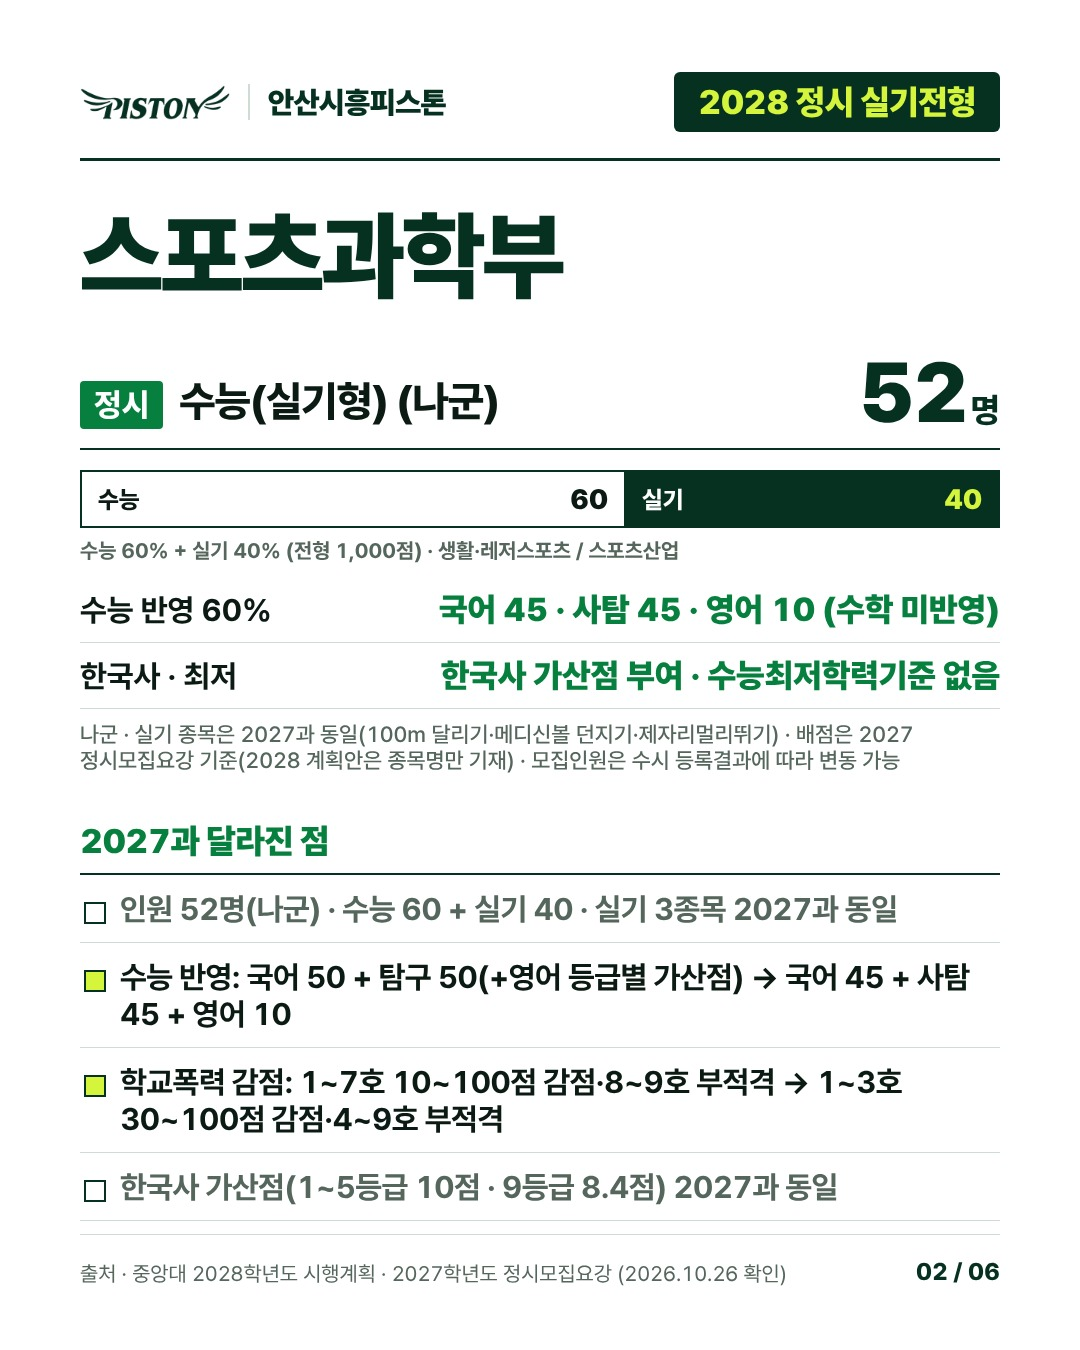
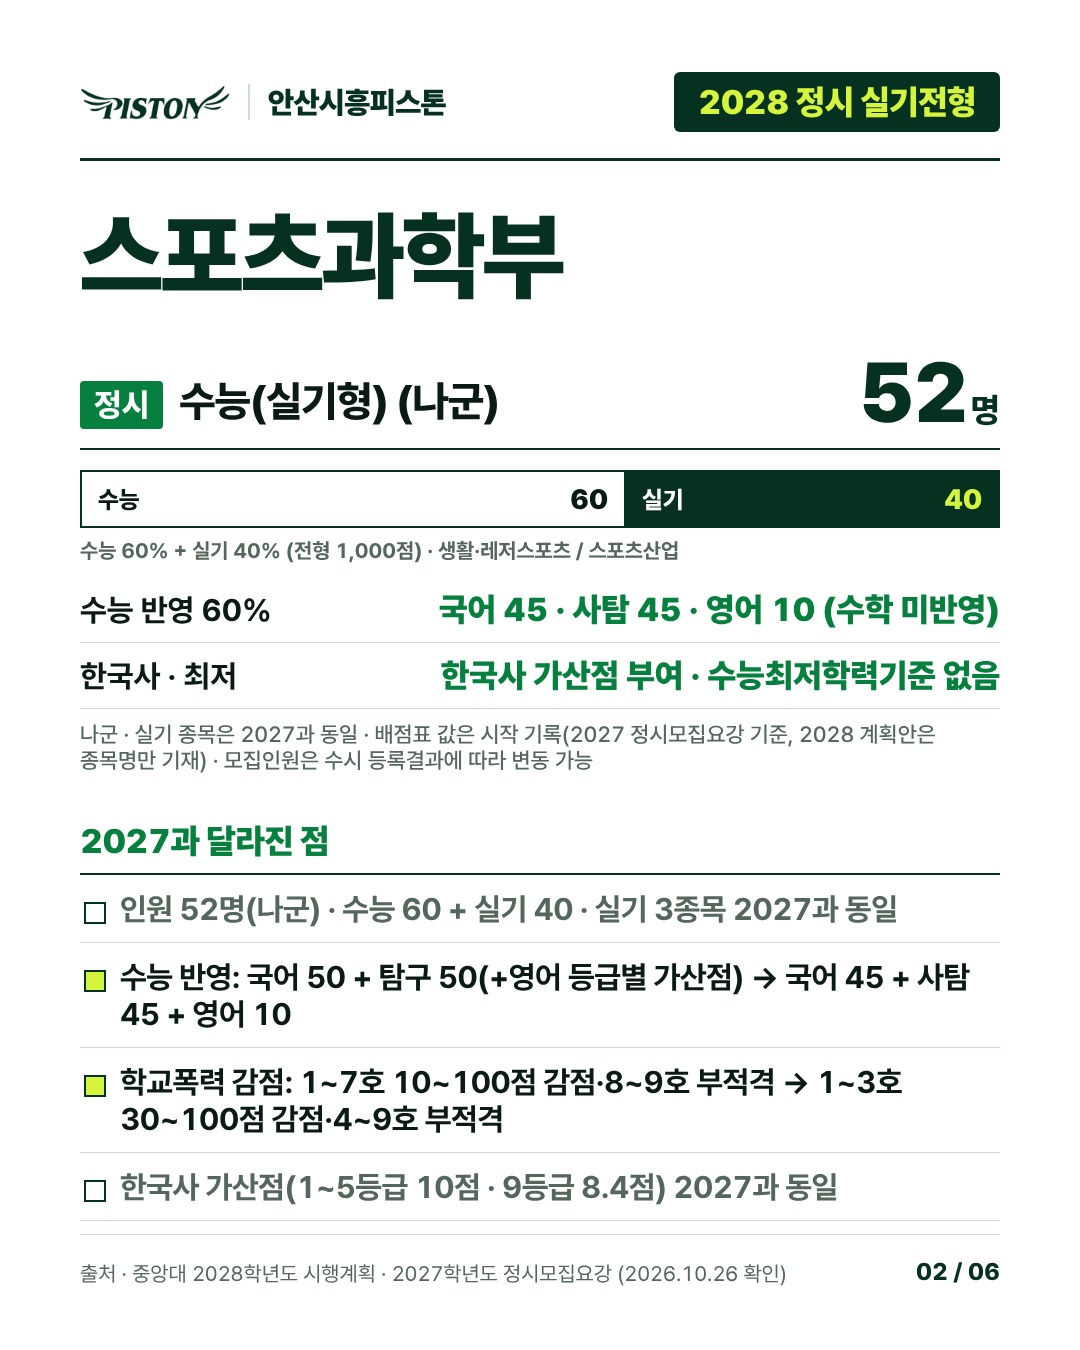
중앙대 2028 정시(수능 실기형) 스포츠과학부 카드
Claude-Session: https://claude.ai/code/session_01EGTn7G8nWP1yv5M2jqmoFb

Changed region(s): [[0.0917, 0.5289, 0.8556, 0.5911]]

diff --git a/social/out/cau-jeongsi-jeongsi/blog.md b/social/out/cau-jeongsi-jeongsi/blog.md
@@ -11,7 +11,7 @@
 ### 정시 수능(실기형) (나군) — 52명
 - 반영비율: 수능 60% + 실기 40% (수능 60% + 실기 40% (전형 1,000점) · 생활·레저스포츠 / 스포츠산업)
 - 실기종목: 100m 달리기 34% · 34점, 메디신 볼 던지기 33% · 33점, 제자리 멀리 뛰기 33% · 33점
-- 나군 · 실기 종목은 2027과 동일(100m 달리기·메디신볼 던지기·제자리멀리뛰기) · 배점은 2027 정시모집요강 기준(2028 계획안은 종목명만 기재) · 모집인원은 수시 등록결과에 따라 변동 가능
+- 나군 · 실기 종목은 2027과 동일 · 배점표 값은 시작 기록(2027 정시모집요강 기준, 2028 계획안은 종목명만 기재) · 모집인원은 수시 등록결과에 따라 변동 가능
 
 [이미지: post-2.jpg]
 
